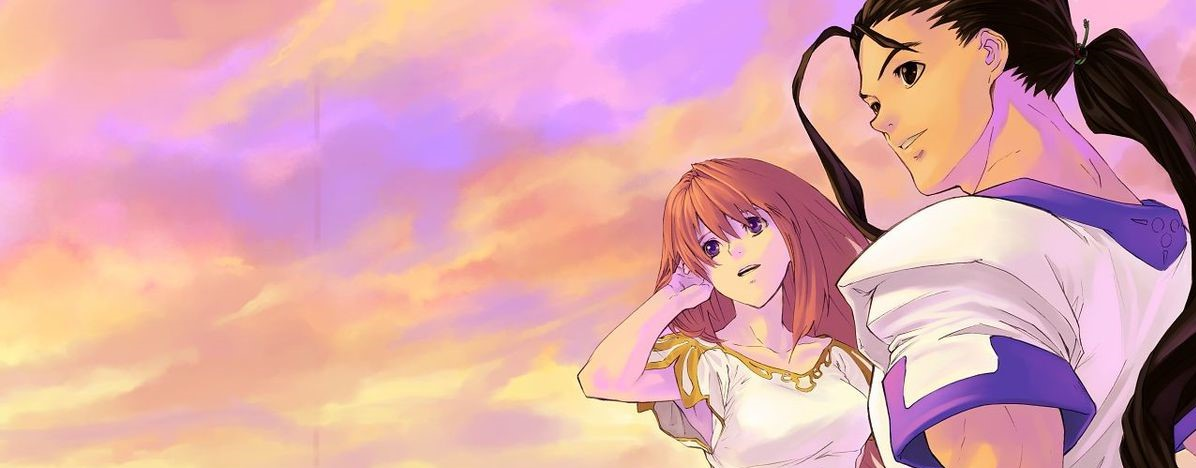
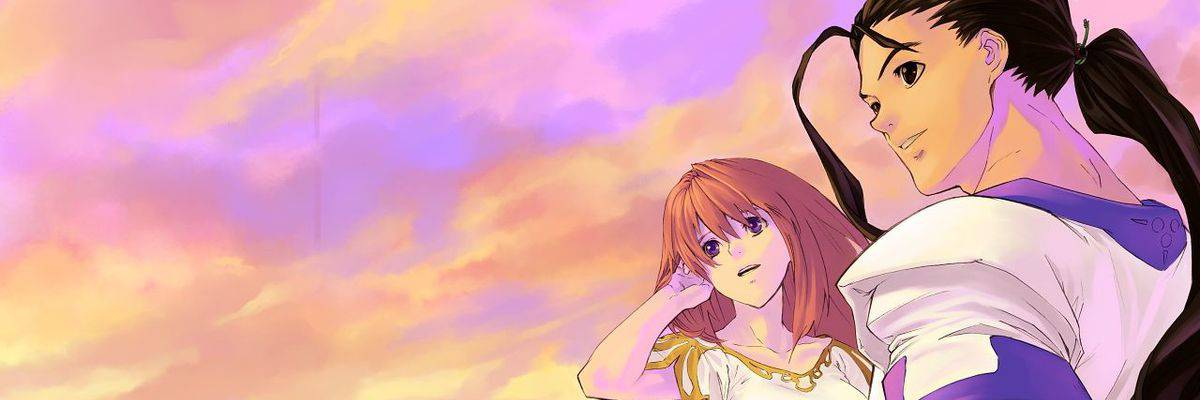
Site updated: 2019-04-13 22:53:25

diff --git a/2019/04/13/xeno/index.html b/2019/04/13/xeno/index.html
@@ -241,7 +241,7 @@ height:50vh;
     <!-- 404页  -->
             
     <div class="site-intro-placeholder"></div>
-    <div class="site-intro-img" style="background-image: url(/intro/xenogears.jpg)"></div>
+    <div class="site-intro-img" style="background-image: url(/intro/xenogears1.jpg)"></div>
     <div class="site-intro-meta">
         <!-- 标题  -->
         <h1 class="intro-title">
@@ -568,8 +568,6 @@ top:50vh;
     <div class="sidebar-content sidebar-content-show-archive">
           <div class="sidebar-panel-archives">
     <!-- 在ejs中将archive按照时间排序 -->
-    
-    
     
     
     

diff --git a/about/index.html b/about/index.html
@@ -499,8 +499,6 @@ height:50vh;
     
     
     
-    
-    
     <div class="total-and-search">
         <div class="total-archive">
         Total : 6

diff --git a/2019/01/26/hello-world/index.html b/2019/01/26/hello-world/index.html
@@ -616,8 +616,6 @@ top:50vh;
     
     
     
-    
-    
     <div class="total-and-search">
         <div class="total-archive">
         Total : 6

diff --git a/2019/01/26/postName/index.html b/2019/01/26/postName/index.html
@@ -627,8 +627,6 @@ top:50vh;
     
     
     
-    
-    
     <div class="total-and-search">
         <div class="total-archive">
         Total : 6

diff --git a/2019/02/06/2ndarticle/index.html b/2019/02/06/2ndarticle/index.html
@@ -636,8 +636,6 @@ top:50vh;
     
     
     
-    
-    
     <div class="total-and-search">
         <div class="total-archive">
         Total : 6

diff --git a/2019/02/24/week1/index.html b/2019/02/24/week1/index.html
@@ -639,8 +639,6 @@ top:50vh;
     
     
     
-    
-    
     <div class="total-and-search">
         <div class="total-archive">
         Total : 6

diff --git a/2019/02/27/NASA/index.html b/2019/02/27/NASA/index.html
@@ -630,8 +630,6 @@ top:50vh;
     
     
     
-    
-    
     <div class="total-and-search">
         <div class="total-archive">
         Total : 6

diff --git a/archives/2019/01/index.html b/archives/2019/01/index.html
@@ -547,8 +547,6 @@ More...
     
     
     
-    
-    
     <div class="total-and-search">
         <div class="total-archive">
         Total : 6

diff --git a/archives/2019/index.html b/archives/2019/index.html
@@ -670,8 +670,6 @@ More...
     
     
     
-    
-    
     <div class="total-and-search">
         <div class="total-archive">
         Total : 6

diff --git a/archives/index.html b/archives/index.html
@@ -670,8 +670,6 @@ More...
     
     
     
-    
-    
     <div class="total-and-search">
         <div class="total-archive">
         Total : 6

diff --git a/index.html b/index.html
@@ -763,8 +763,6 @@ More...
     
     
     
-    
-    
     <div class="total-and-search">
         <div class="total-archive">
         Total : 6

diff --git a/archives/2019/02/index.html b/archives/2019/02/index.html
@@ -582,8 +582,6 @@
     
     
     
-    
-    
     <div class="total-and-search">
         <div class="total-archive">
         Total : 6
